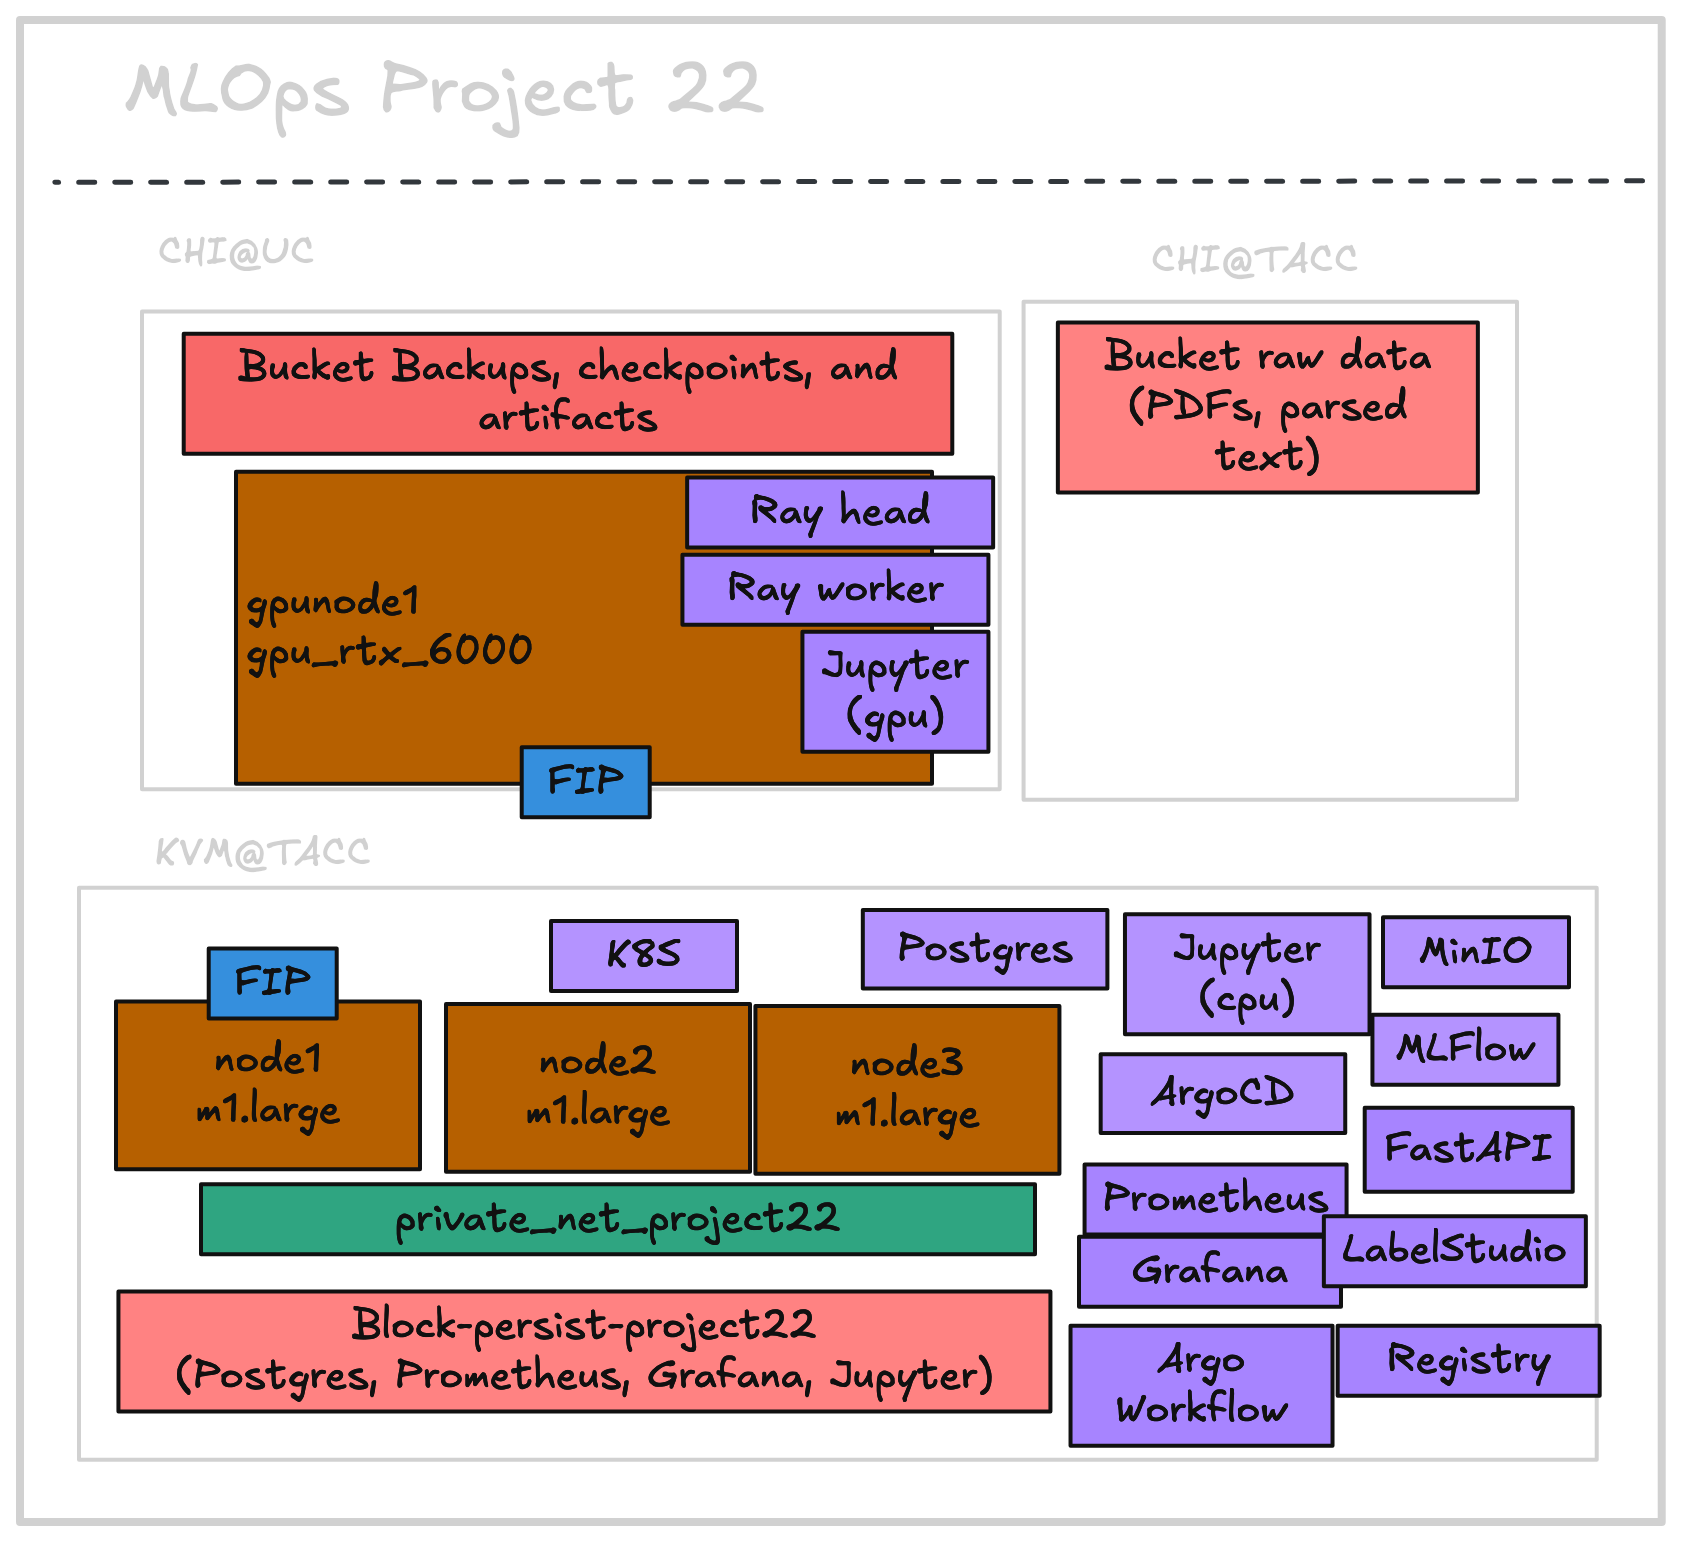
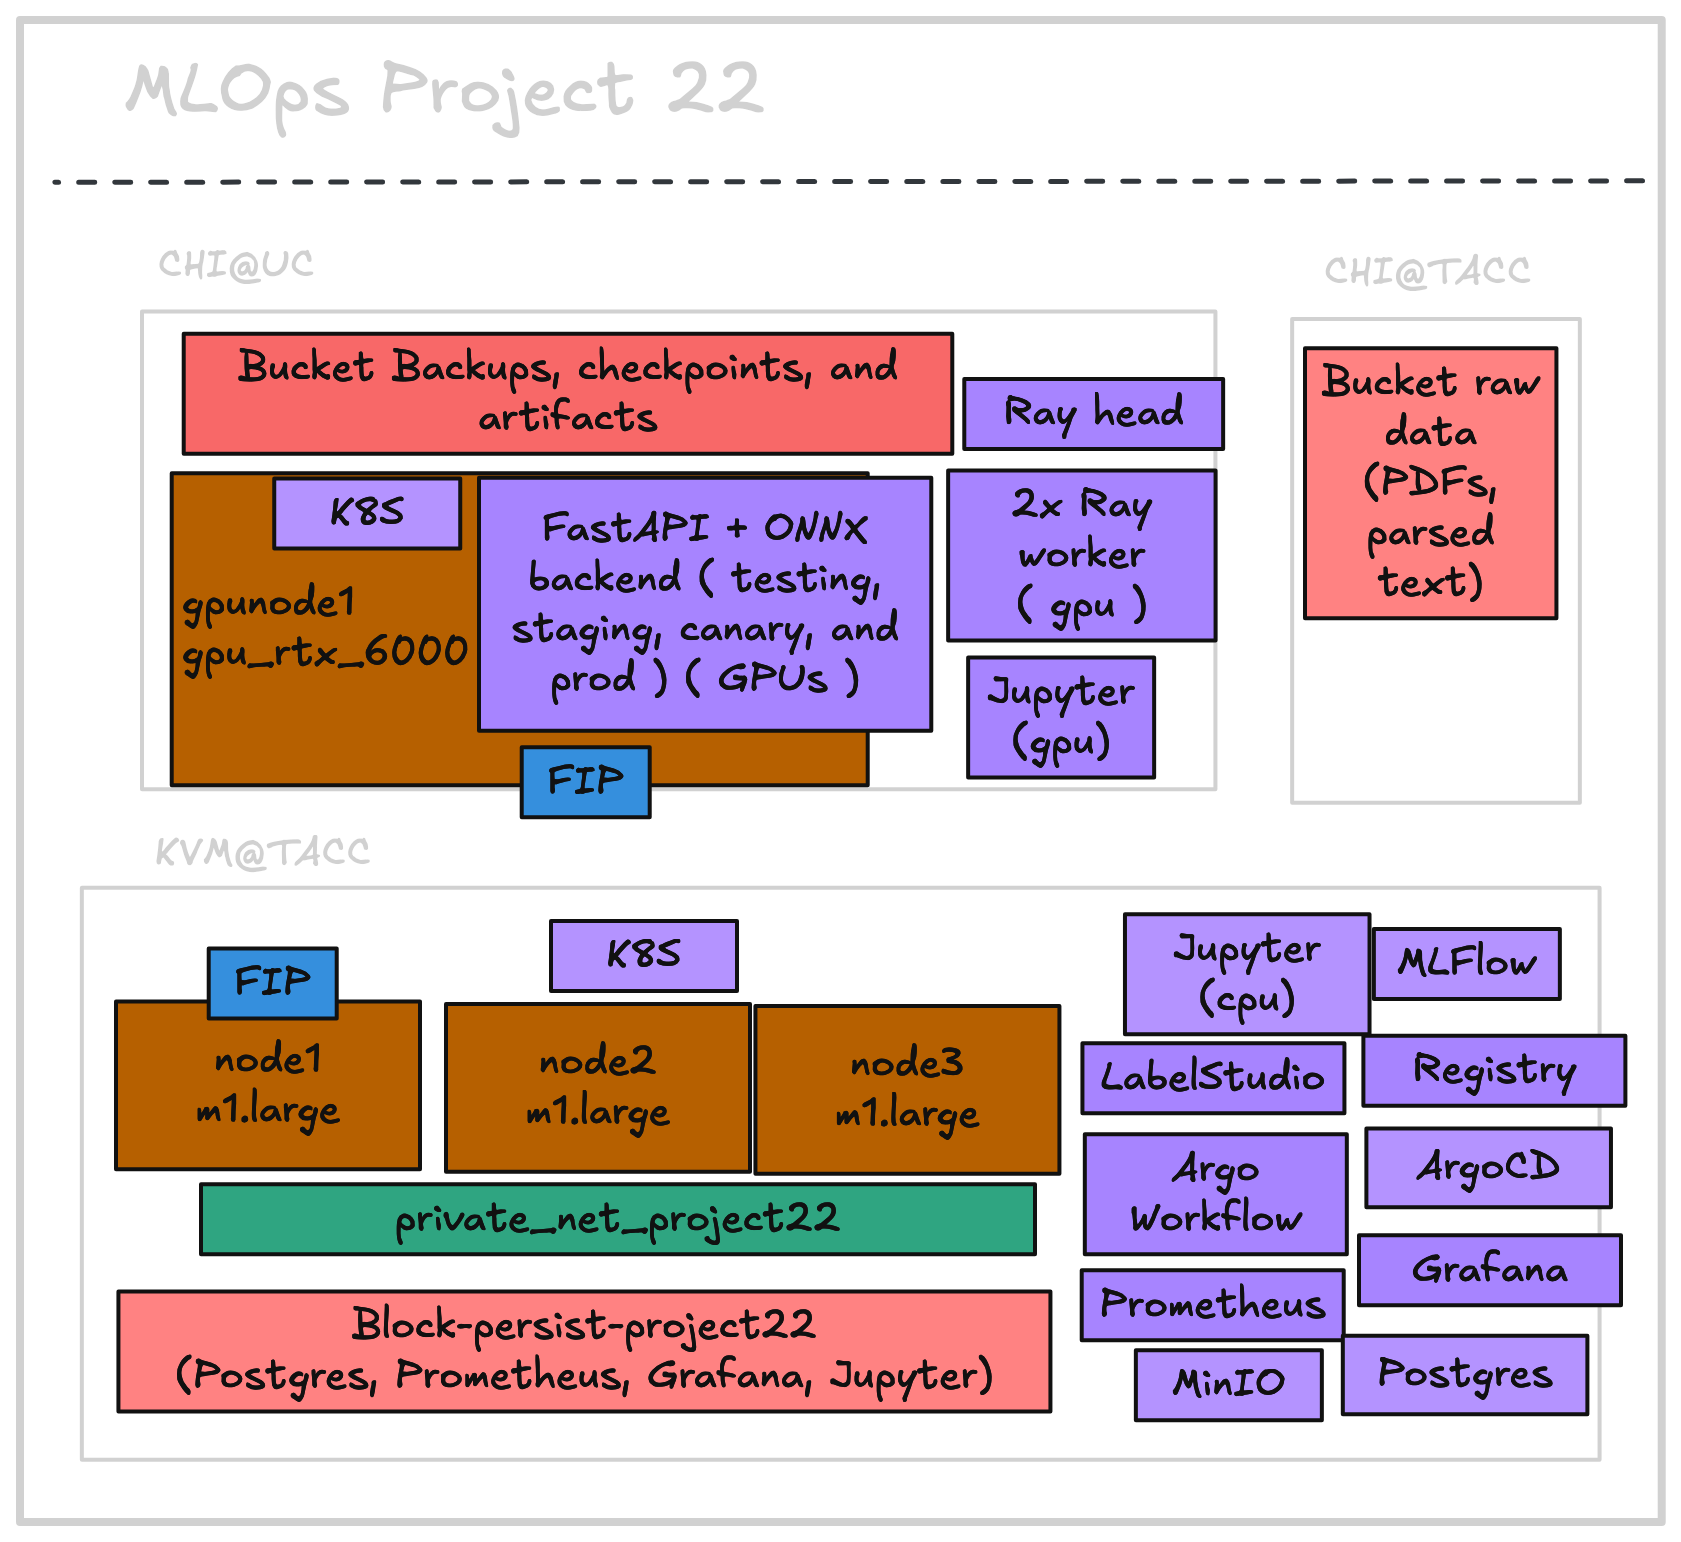
update continous-x readme

diff --git a/README-continousx.md b/README-continousx.md
@@ -3,20 +3,30 @@
 
 ![systemdiagram](./continousx.png)
 
-# (1) To provision and bootstrap the infrastructure:
+# To provision and bootstrap the infrastructure:
 
-- Using Openstack CLI to create volumes and a reservation lease at ./openstack/README.md .
+- Using Openstack CLI to create volumes and a reservation lease at [./openstack/README.md](./openstack/README.md).
 
-- Using Terraform to bring up the infrastructure at ./terraform/README.md :
+- Using Terraform to bring up the infrastructure at [./terraform/README.md](./terraform/README.md) :
     - 3x m1.large cpu nodes at KVM@TACC site with a private network.
     - 1x RTX 6000 GPU node at CHI@UC site.
 
-- Using Ansible to bootstrap the machine with kubernetes, ArgoCD applications and setup secrets at ./ansible/README.md :
+- Using Ansible to bootstrap the nodes with kubernetes, ArgoCD applications and setup secrets at [./ansible/README.md](./ansible/README.md) :
     - Add docker auth file ( `.docker` ) to the cpu and gpu nodes.
     - Bootstrap K8s on _both_ the nodes with kube-spray.
     - Create K8 namespaces and add secrets, and configMaps.
-    - Bring up ArgoCD applications.
+    - Bringing up ArgoCD applications.
     - Create a ssh tunnel from the gpu node at CHI_UC to node1 at KVM_TACC in order to access the Ray Cluster endpoint and metrics at KVM_TACC.
 
 - Using Argo Workflows to register workflows.
+
+# Kubernetes deployments
+
+- [mlflow helm chart](./kubernetes/mlflow)
+- [test model serving helm chart](./kubernetes/serve_testing)
+- [staging helm chart](./kubernetes/serve_staging)
+- [canary helm chart](./kubernetes/serve_canary)
+- [production helm chart](./kubernetes/serve_prod)
+
+
 
